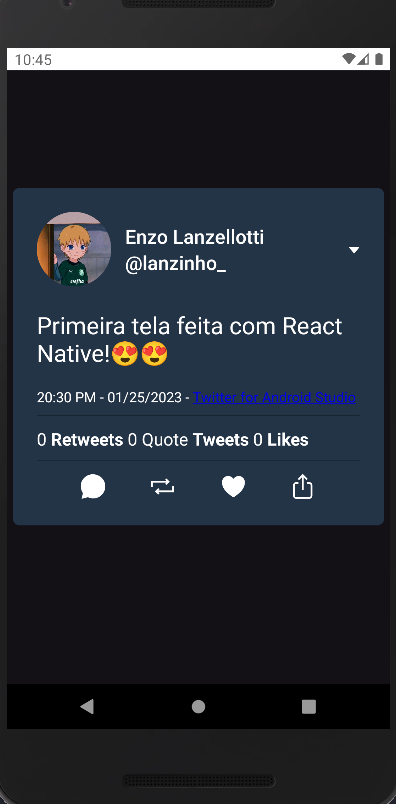
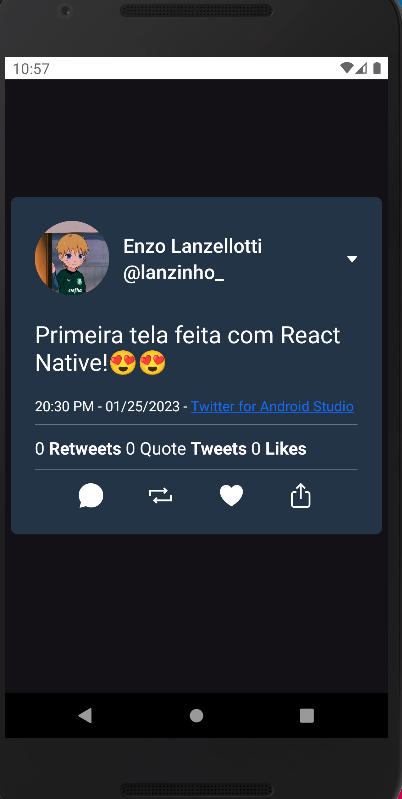
Primeiro projeto v1

diff --git a/components/Post/style.ts b/components/Post/style.ts
@@ -37,7 +37,7 @@ export const styles = StyleSheet.create({
         borderRadius: 8
     },
     hr: {
-        borderBottomColor: 'black',
+        borderBottomColor: 'white',
         borderBottomWidth: StyleSheet.hairlineWidth,
         marginTop: 10
     },
